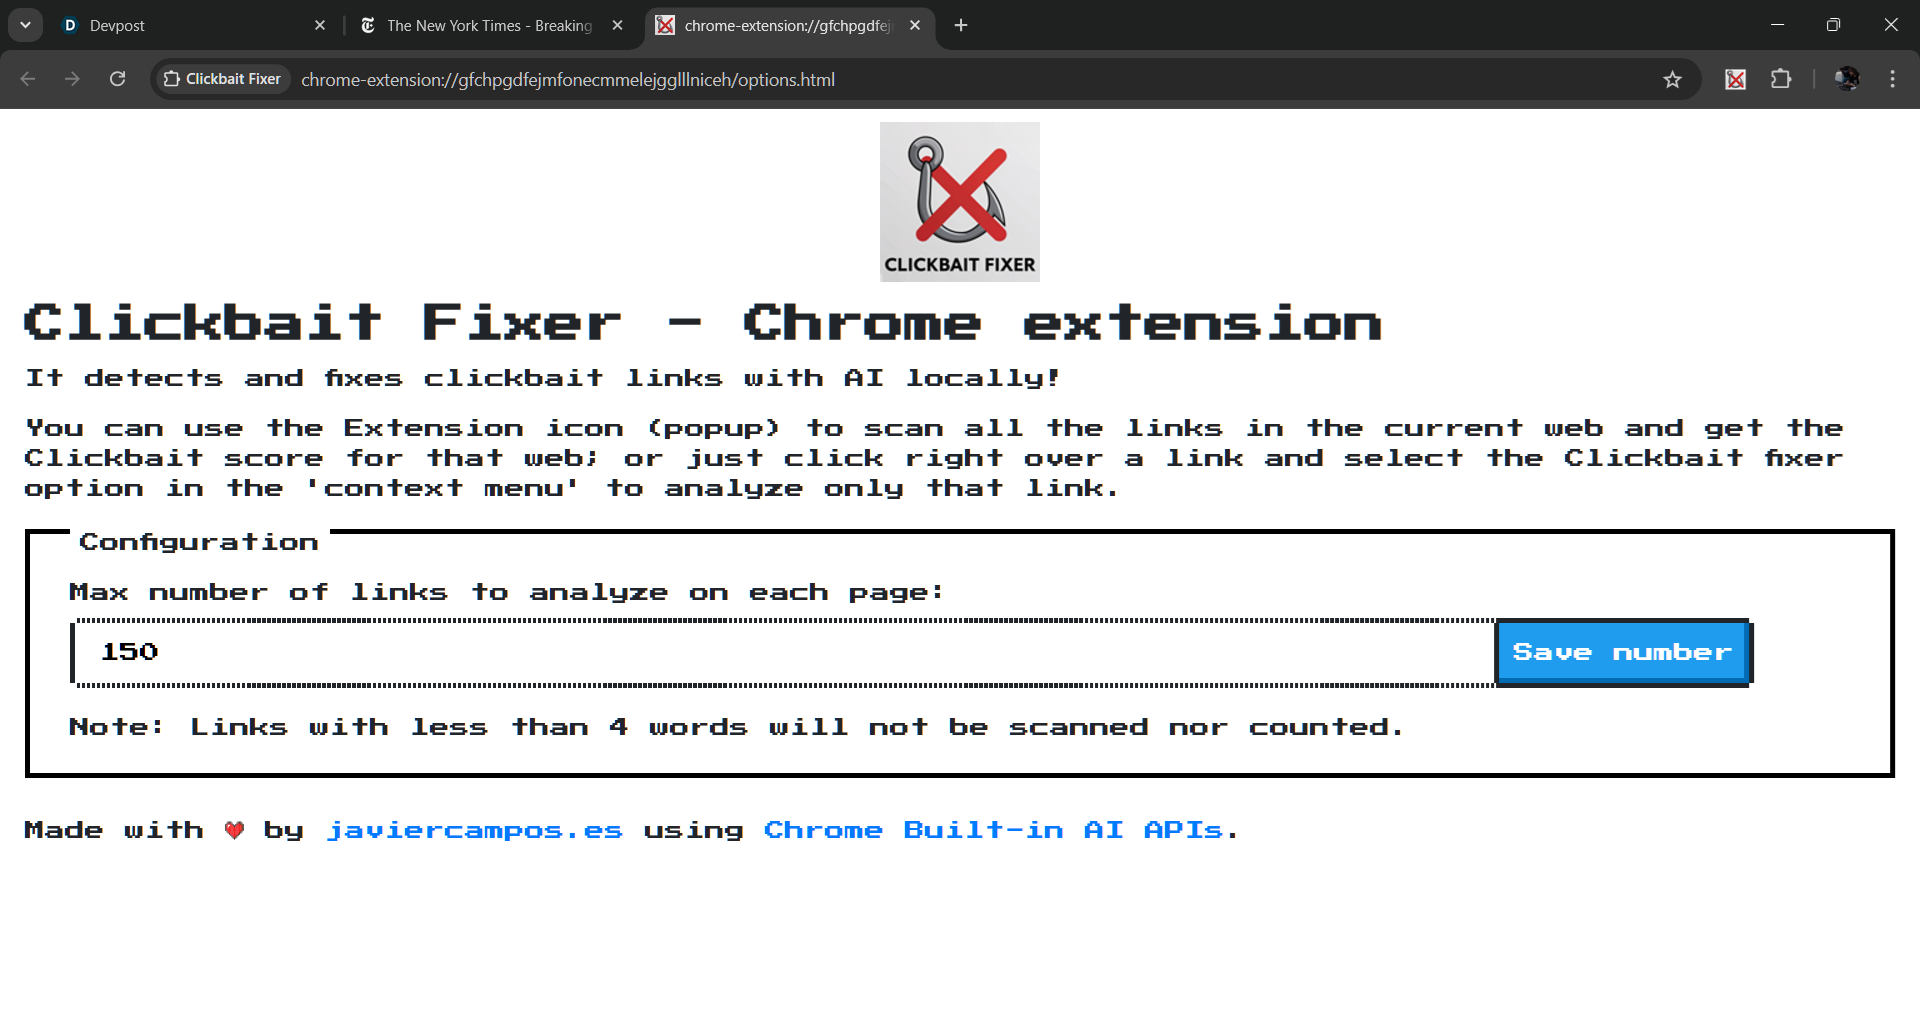
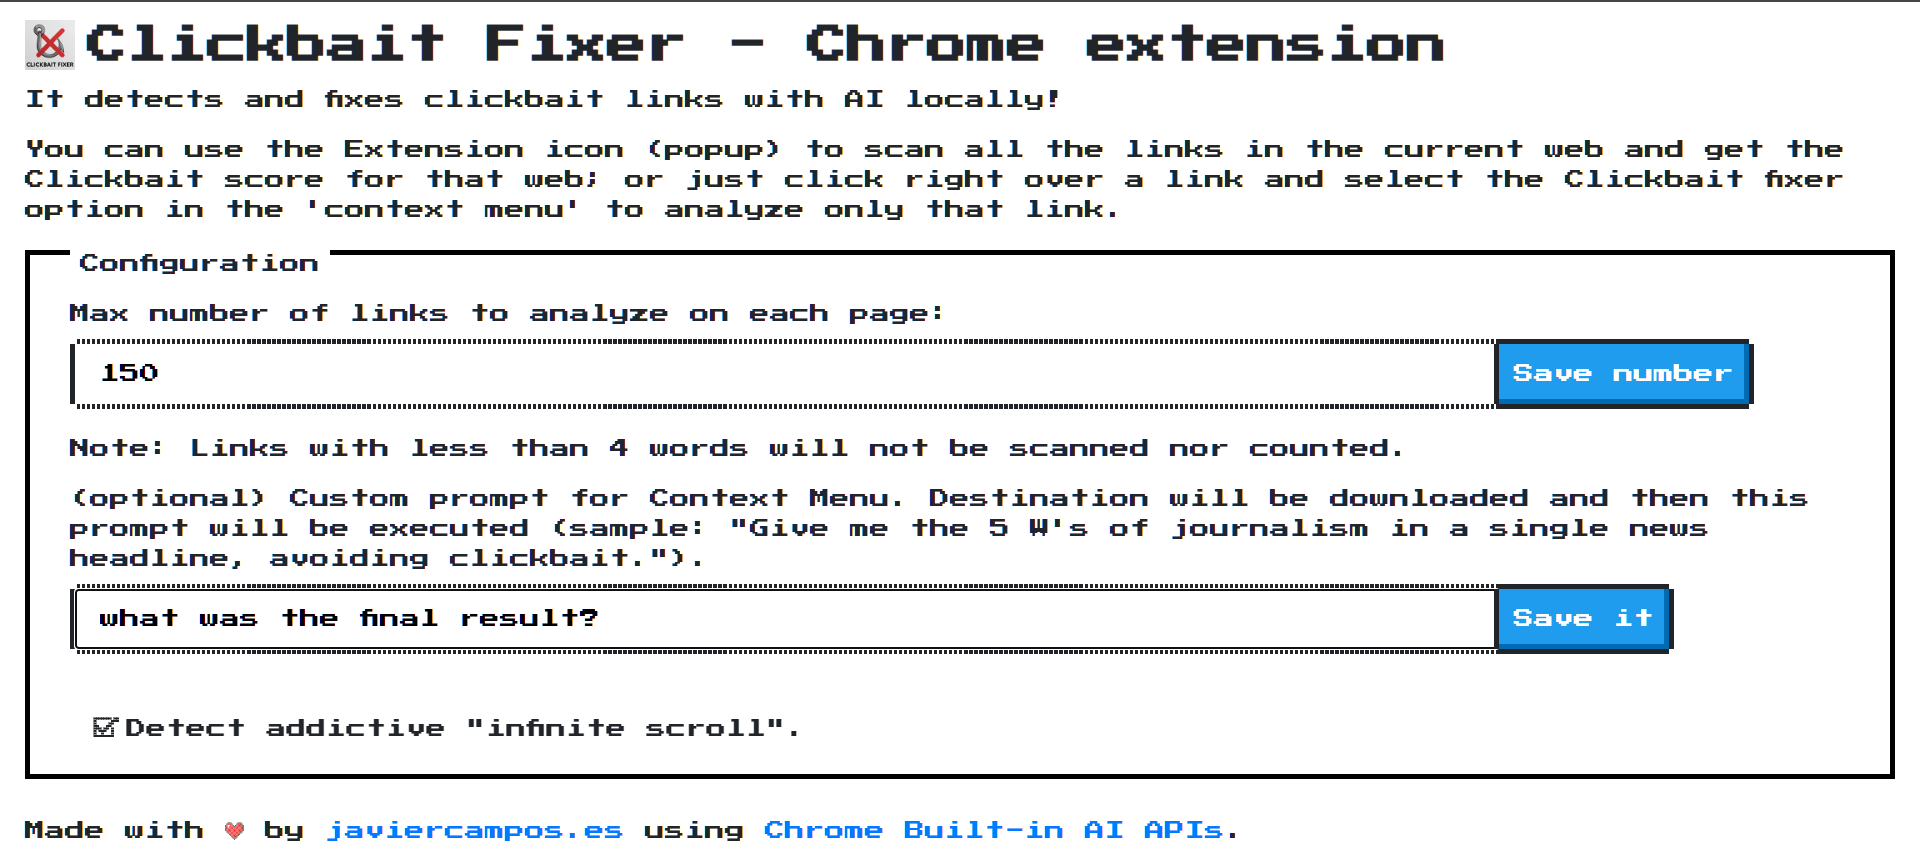
Documentation updated.

Changed region(s): [[0.0, 0.0, 1.0, 0.9062], [0.0, 0.9375, 0.6562, 0.9688]]

diff --git a/README.md b/README.md
@@ -110,3 +110,7 @@ I learned a lot about:
 ![Context menu](doc/clickbait-fixer--screenshot-context-menu.png)
 
 ![Config page](doc/clickbait-fixer--screenshot-config.png)
+
+Now this Chrome Extension includes "infinite scroll" detection to help you to break out of the loop:
+
+![Config page](doc/infinite-scroll-detection.png)
